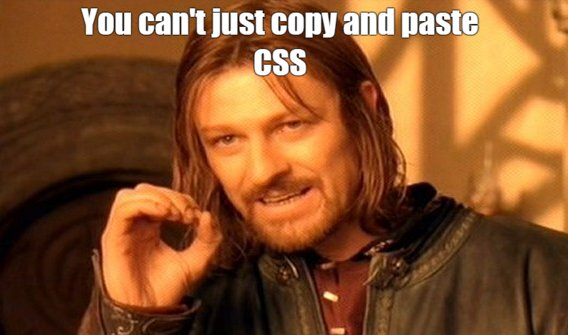
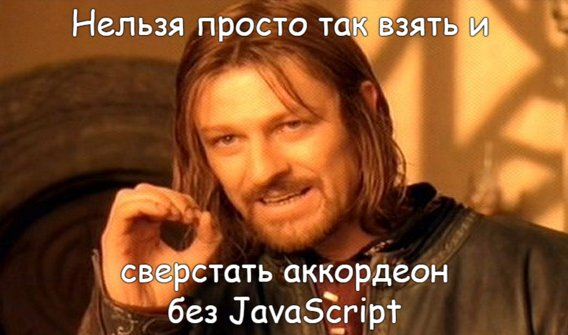
feat: add 6 meme-items (11 мар 2023 г.  0:04:10)

Changed region(s): [[0.2095, 0.7761, 0.8081, 0.9851], [0.1197, 0.0, 0.868, 0.2388]]

diff --git a/cssBayan/index.html b/cssBayan/index.html
@@ -11,42 +11,80 @@
   <div class="cssbayan">
     <div class="cssbayan__wrapper">
       <div class="cssbayan__title">CSS Bayan</div>
-      <ul class="cssbayan__list">
-        <li class="cssbayan__item">
-          <a href="#item-1">
-            <div class="cssbayan__item-body" id="item-1">
-              <div class="cssbayan__item-content">
-                <div class="cssbayan__item-img">
-                  <img src="img/d08b19c28aa886d6f7cf314fa32532b7.jpg" alt="" srcset="">
-                </div>
-              </div>
+      <div class="cssbayan__list">
+        <div class="cssbayan__item">
+          <label class="cssbayan__label" for="item-1">
+            <input type="radio" class="cssbayan__input" name="item-1" id="item-1" checked>
+            <div class="cssbayan__content">
+              <div class="cssbayan__img"><img src="img/d08b19c28aa886d6f7cf314fa32532b7.jpg" alt="You can't just take"></div>
             </div>
-            <div class="cssbayan__item-title">
-              <label for="cssbayan-input-1">
-                You can't just copy and paste CSS
-              </label>
-              <div class="cssbayan__btn">x</div>
+            <div class="cssbayan__header">
+              <div class="cssbayan__subtitle">Нельзя просто так взять...</div>
+              <div class="cssbayan__btn">+</div>
             </div>
-          </a>
-        </li>
-        <li class="cssbayan__item">
-          <a href="#item-2">
-            <div class="cssbayan__item-body" id="item-2">
-              <div class="cssbayan__item-content">
-                <div class="cssbayan__item-img">
-                  <img src="img/d08b19c28aa886d6f7cf314fa32532b7.jpg" alt="" srcset="">
-                </div>
-              </div>
+          </label>
+        </div>
+        <div class="cssbayan__item">
+          <label class="cssbayan__label" for="item-2">
+            <input type="radio" class="cssbayan__input" name="item-1" id="item-2">
+            <div class="cssbayan__content">
+              <div class="cssbayan__img"><img src="img/1677587850118717436.jpg" alt="Soon I will finish"></div>
             </div>
-            <div class="cssbayan__item-title">
-              <label for="cssbayan-input-2">
-                You can't just copy and paste CSS
-              </label>
-              <div class="cssbayan__btn">x</div>
+            <div class="cssbayan__header">
+              <div class="cssbayan__subtitle">Скоро я закончу</div>
+              <div class="cssbayan__btn">+</div>
             </div>
-          </a>
-        </li>
-      </ul>
+          </label>
+        </div>
+        <div class="cssbayan__item">
+          <label class="cssbayan__label" for="item-3">
+            <input type="radio" class="cssbayan__input" name="item-1" id="item-3">
+            <div class="cssbayan__content">
+              <div class="cssbayan__img"><img src="img/1676481198167813503.jpg" alt="reality"></div>
+            </div>
+            <div class="cssbayan__header">
+              <div class="cssbayan__subtitle">Реальность</div>
+              <div class="cssbayan__btn">+</div>
+            </div>
+          </label>
+        </div>
+        <div class="cssbayan__item">
+          <label class="cssbayan__label" for="item-4">
+            <input type="radio" class="cssbayan__input" name="item-1" id="item-4">
+            <div class="cssbayan__content">
+              <div class="cssbayan__img"><img src="img/167607195615868247.jpg" alt="junior frontEnd"></div>
+            </div>
+            <div class="cssbayan__header">
+              <div class="cssbayan__subtitle">Junior FrontEnd</div>
+              <div class="cssbayan__btn">+</div>
+            </div>
+          </label>
+        </div>
+        <div class="cssbayan__item">
+          <label class="cssbayan__label" for="item-5">
+            <input type="radio" class="cssbayan__input" name="item-1" id="item-5">
+            <div class="cssbayan__content">
+              <div class="cssbayan__img"><img src="img/165364763313555173.jpg" alt="JS it's easy"></div>
+            </div>
+            <div class="cssbayan__header">
+              <div class="cssbayan__subtitle">Давай! Вошли и вышли</div>
+              <div class="cssbayan__btn">+</div>
+            </div>
+          </label>
+        </div>
+        <div class="cssbayan__item">
+          <label class="cssbayan__label" for="item-6">
+            <input type="radio" class="cssbayan__input" name="item-1" id="item-6">
+            <div class="cssbayan__content">
+              <div class="cssbayan__img"><img src="img/1237676ush786127863.png" alt="Horse"></div>
+            </div>
+            <div class="cssbayan__header">
+              <div class="cssbayan__subtitle">Когда решил создать лошадь с помощью JavaScript</div>
+              <div class="cssbayan__btn">+</div>
+            </div>
+          </label>
+        </div>
+      </div>
     </div>
   </div>
 </body>

diff --git a/cssBayan/style.css b/cssBayan/style.css
@@ -6,10 +6,11 @@ article,aside,details,figcaption,figure,footer,header,hgroup,nav,section,summary
 body {
   height: 100vh;
   width: 100%;
-  padding-top: 40px;
+  padding-top: 3rem;
   display: flex;
   justify-content: center;
   /* align-items: center; */
   font-family: Impact, Haettenschweiler, 'Arial Narrow Bold', sans-serif;
 }
+
 
